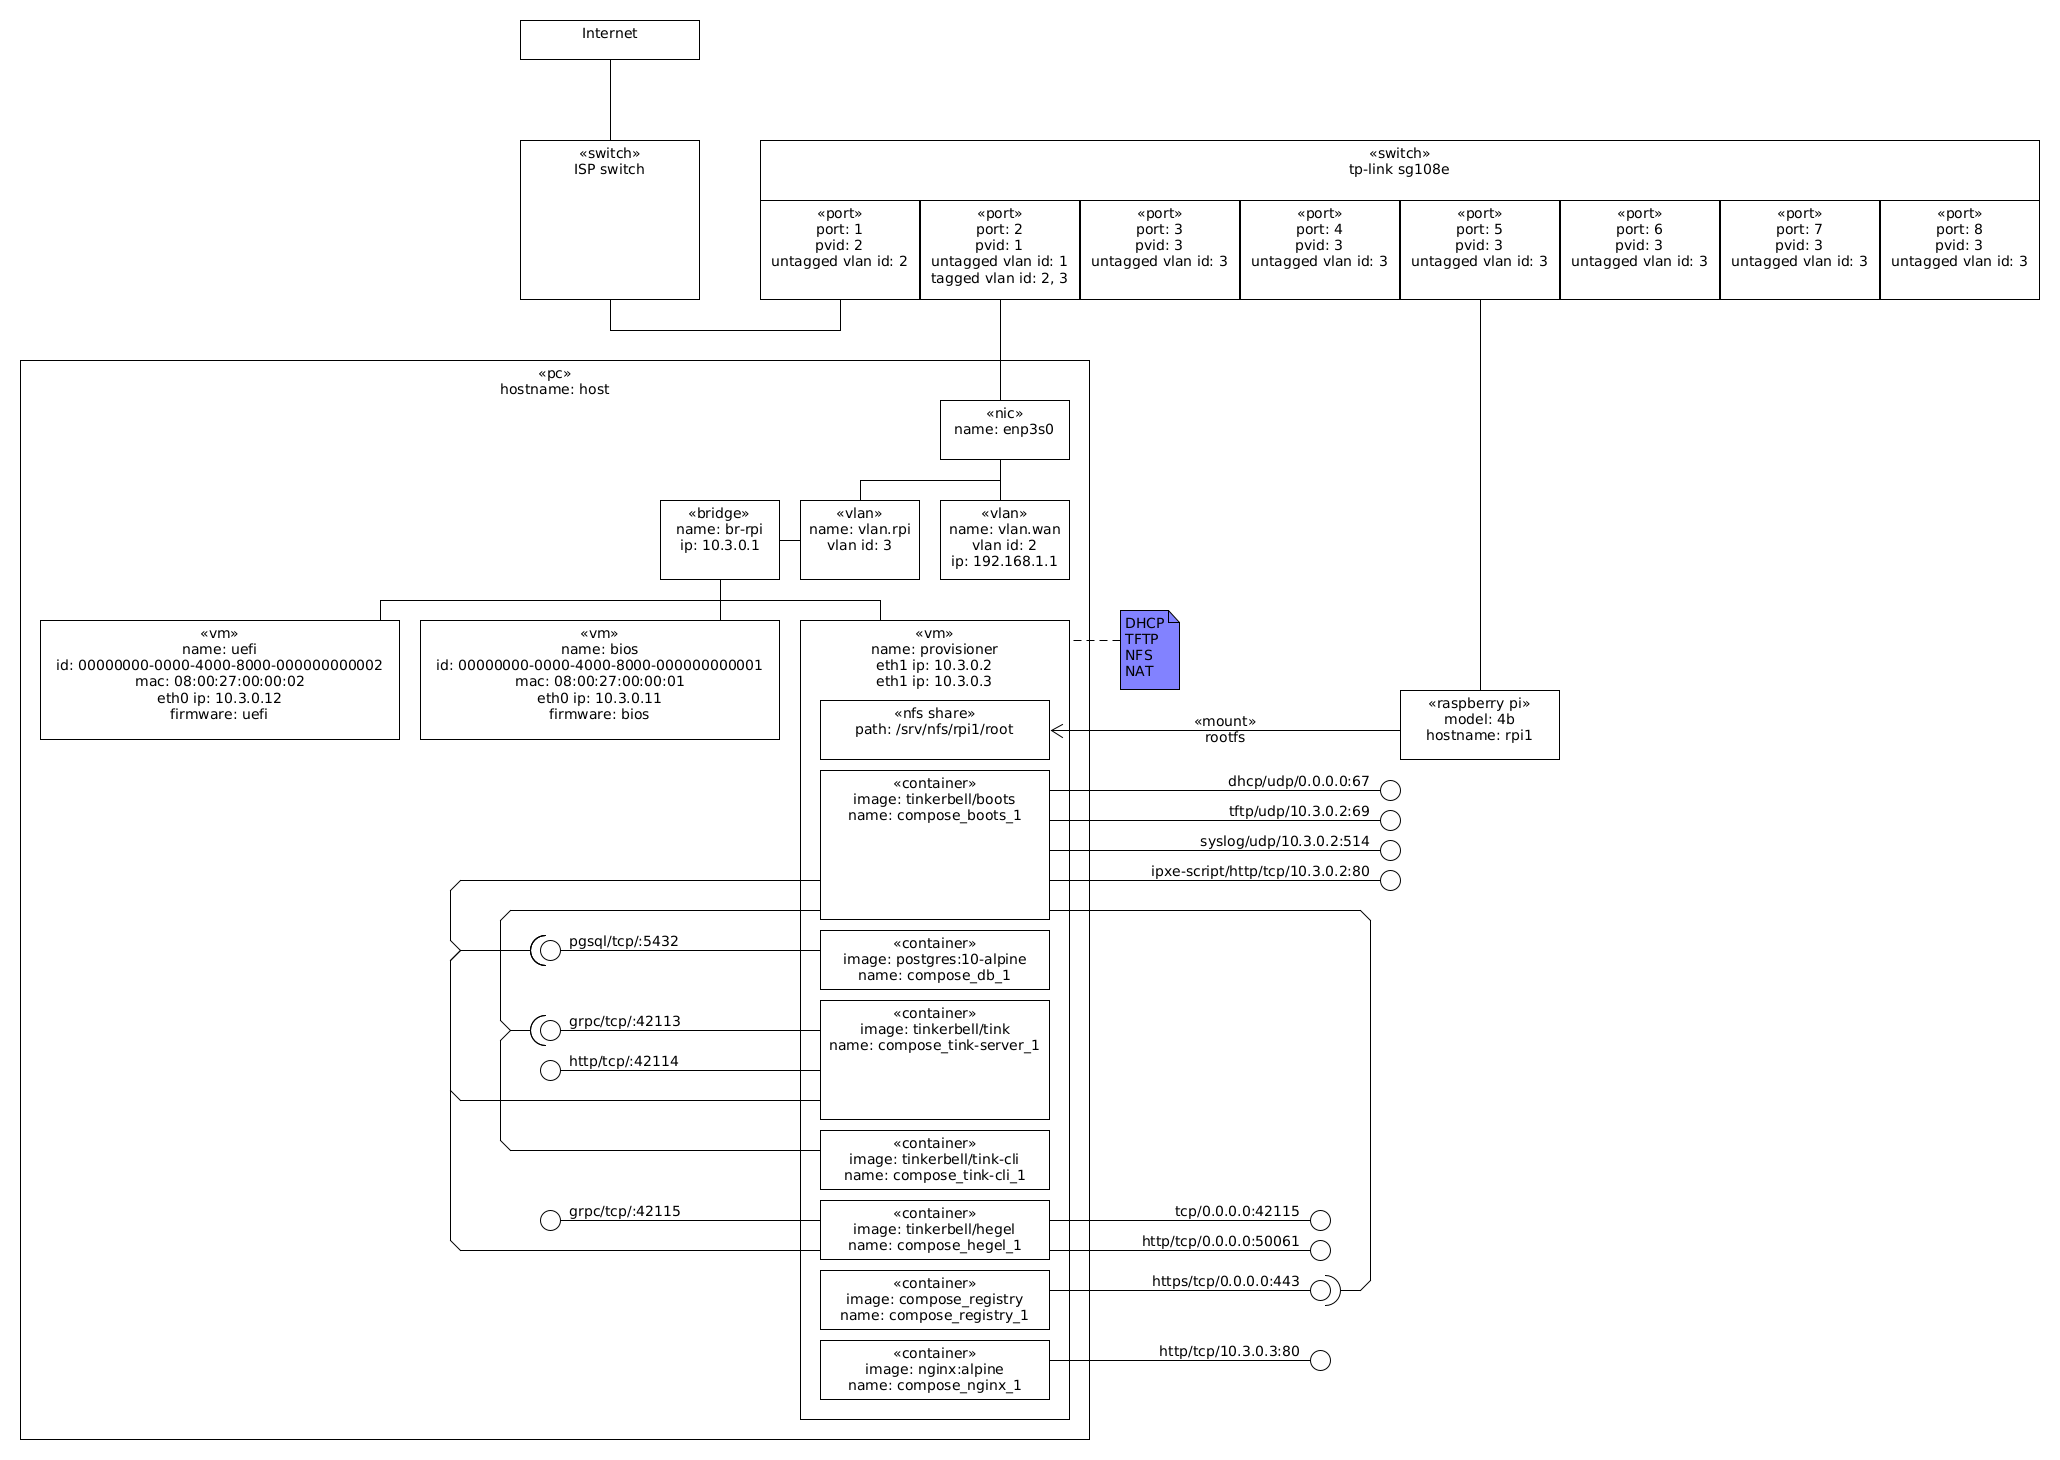
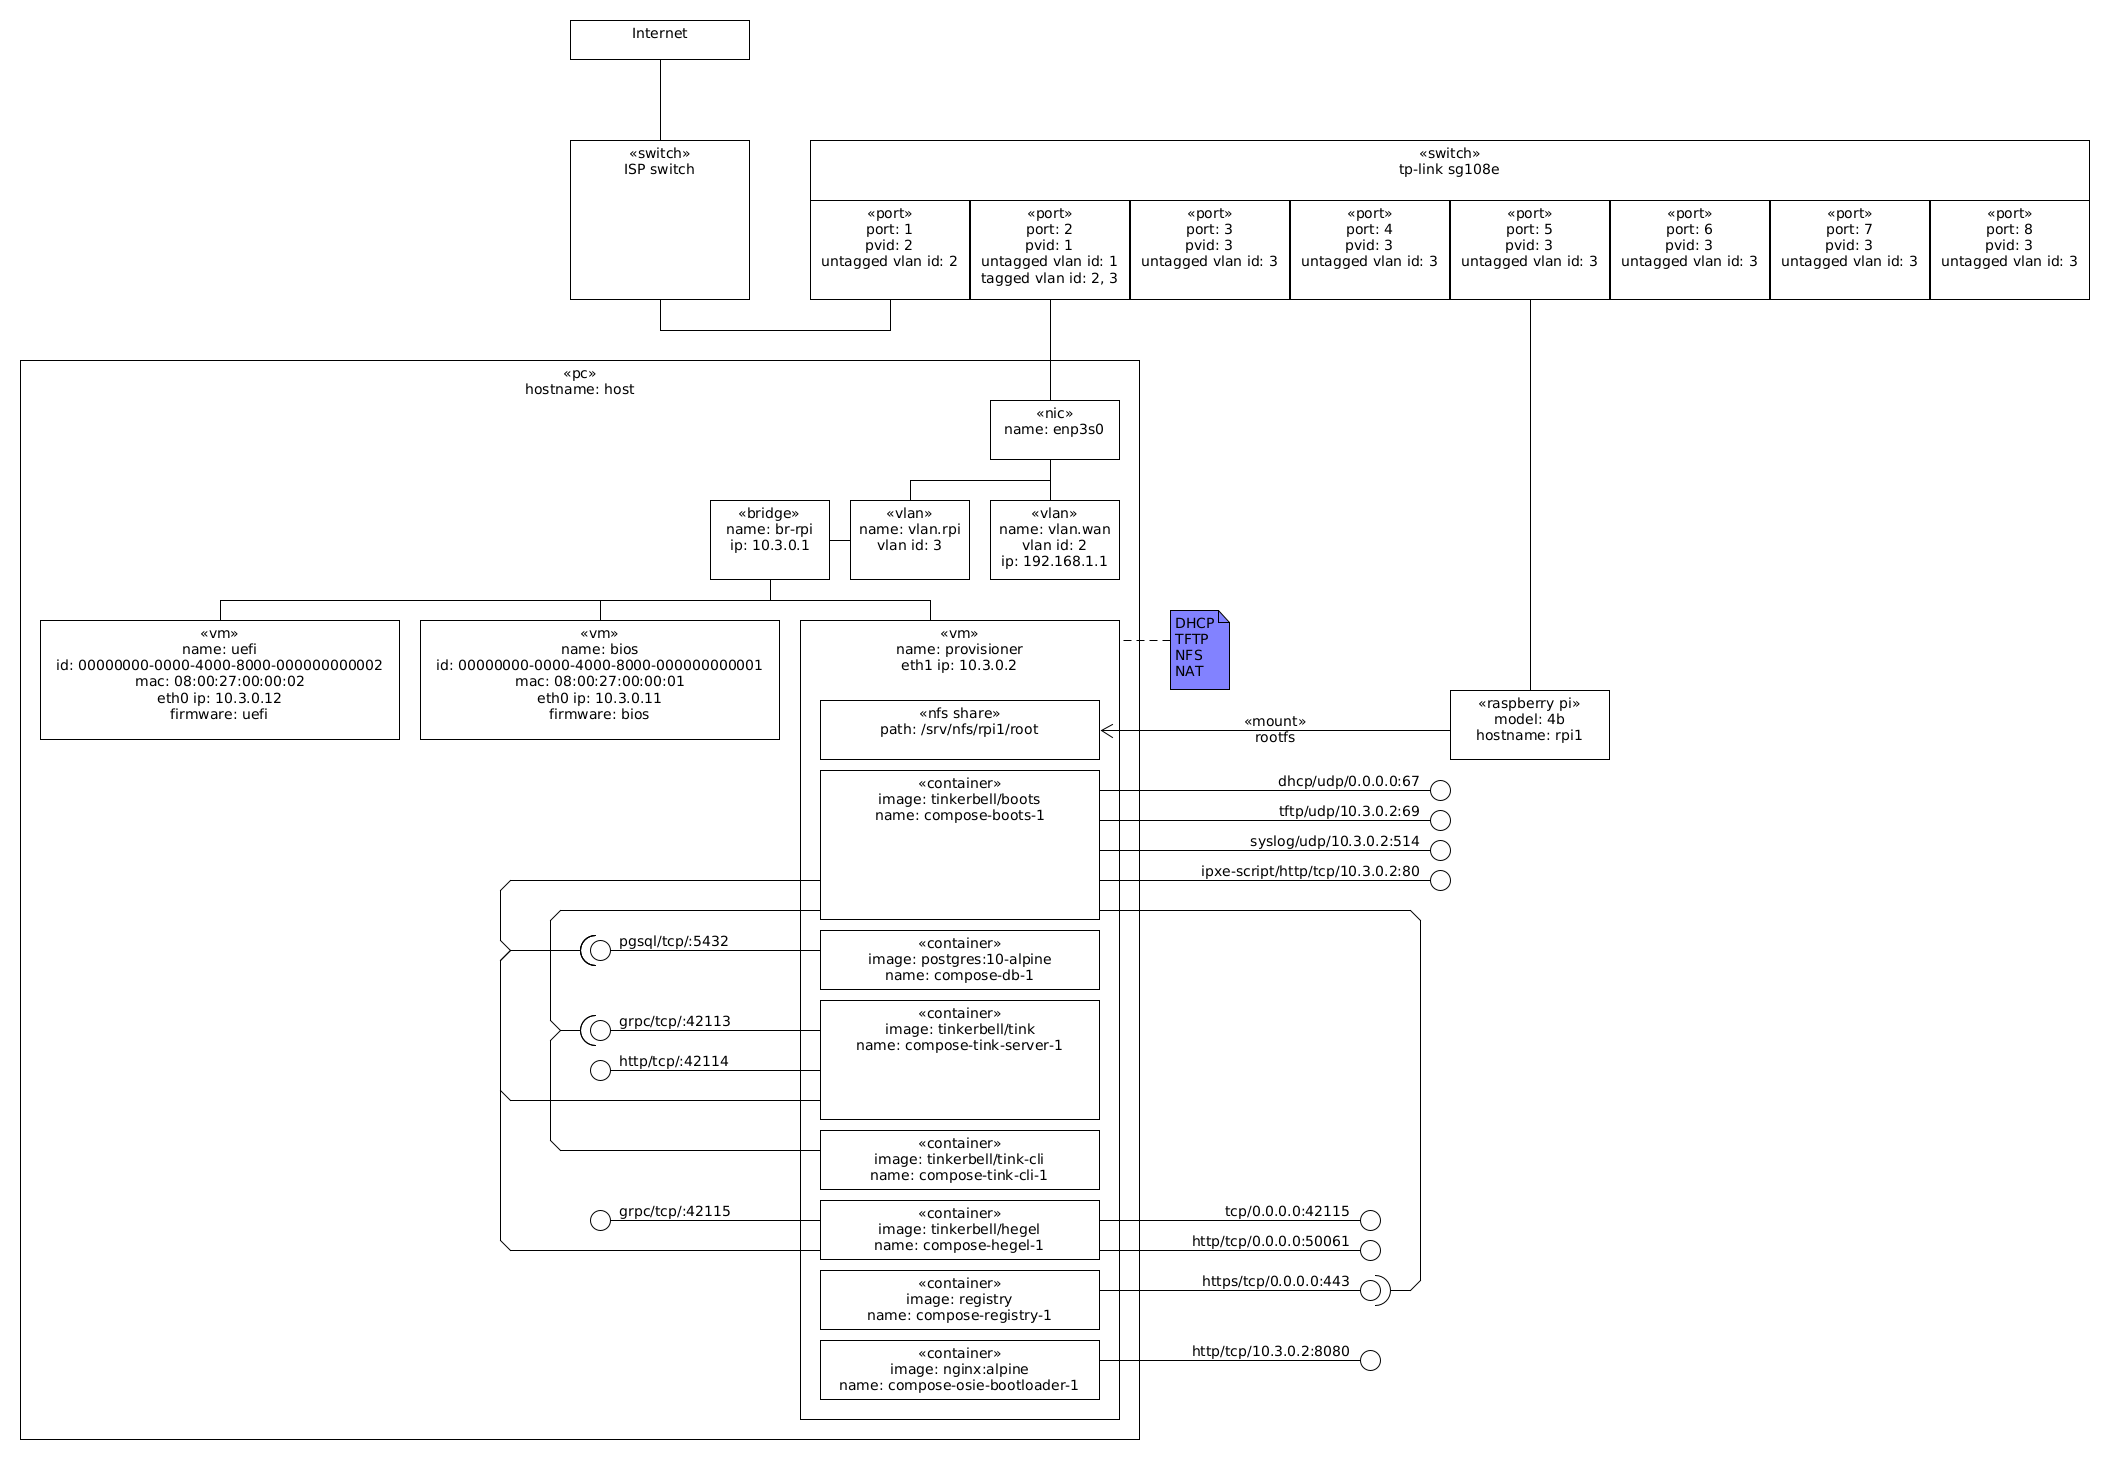
upgrade to docker compose 2.0.0

diff --git a/README.md b/README.md
@@ -206,20 +206,20 @@ At the time of writing these were the containers running by default:
 ```plain
 ContainerName                        ImageName                                 ImageId
 -----------------------------------  ----------------------------------------  -----------------------------------------------------------------------
-/compose_boots_1                     quay.io/tinkerbell/boots:sha-94f43947     sha256:dbebee7b9680a291045eec5c38106bed47d68434b3f9486911af7c5f3011dcde
-/compose_db_1                        postgres:10-alpine                        sha256:17ec9988ae216f69d9e6528aae17a9fce29a2b7951313de9a34802528116f2eb
-/compose_hegel_1                     quay.io/tinkerbell/hegel:sha-9f5da0a8     sha256:1e32a53ea16153ac9c7b6f0eea4aa8956f748ed710d8b926b9257221e794c3b8
-/compose_images-to-local-registry_1  quay.io/containers/skopeo:latest          sha256:330344b12dec285bdd089afe6b2752b6bd84b122ce5e51d7a32567f7b2d68b89
-/compose_osie-bootloader_1           nginx:alpine                              sha256:513f9a9d8748b25cdb0ec6f16b4523af7bba216a6bf0f43f70af75b4cf7cb780
-/compose_osie-work_1                 bash:4.4                                  sha256:e9ae8cfa6bbca7b9790ab5ea66d619e3cf9df5d037f8969980d96193eef0a198
-/compose_registry_1                  registry:2.7.1                            sha256:b2cb11db9d3d60af38d9d6841d3b8b053e5972c0b7e4e6351e9ea4374ed37d8c
-/compose_registry-auth_1             httpd:2                                   sha256:5ebe6e00baf9e77921c66f750839caf2adca3f22595504e4d93154fa5393631a
-/compose_registry-ca-crt-download_1  alpine                                    sha256:14119a10abf4669e8cdbdff324a9f9605d99697215a0d21c360fe8dfa8471bab
-/compose_tink-cli_1                  quay.io/tinkerbell/tink-cli:sha-8ea8a0e5  sha256:c67d5bdf2f1dc5a7eebe1e31a73abe46c28bdafc11ead079688d94253c836ceb
-/compose_tink-server_1               quay.io/tinkerbell/tink:sha-8ea8a0e5      sha256:7231517852e13257353e65ebe58d66eb949ecad5890188b7e050188e7ea05a7d
-/compose_tink-server-migration_1     quay.io/tinkerbell/tink:sha-8ea8a0e5      sha256:7231517852e13257353e65ebe58d66eb949ecad5890188b7e050188e7ea05a7d
-/compose_tls-gen_1                   cfssl/cfssl                               sha256:655abf144edde793a3ff1bc883cc82ca61411efb35d0d403a52f202c9c3cd377
-/compose_tls-gen_run_eb807e23f155    cfssl/cfssl                               sha256:655abf144edde793a3ff1bc883cc82ca61411efb35d0d403a52f202c9c3cd377
+/compose-boots-1                     quay.io/tinkerbell/boots:sha-94f43947     sha256:dbebee7b9680a291045eec5c38106bed47d68434b3f9486911af7c5f3011dcde
+/compose-db-1                        postgres:10-alpine                        sha256:17ec9988ae216f69d9e6528aae17a9fce29a2b7951313de9a34802528116f2eb
+/compose-hegel-1                     quay.io/tinkerbell/hegel:sha-9f5da0a8     sha256:1e32a53ea16153ac9c7b6f0eea4aa8956f748ed710d8b926b9257221e794c3b8
+/compose-images-to-local-registry-1  quay.io/containers/skopeo:latest          sha256:330344b12dec285bdd089afe6b2752b6bd84b122ce5e51d7a32567f7b2d68b89
+/compose-osie-bootloader-1           nginx:alpine                              sha256:513f9a9d8748b25cdb0ec6f16b4523af7bba216a6bf0f43f70af75b4cf7cb780
+/compose-osie-work-1                 bash:4.4                                  sha256:e9ae8cfa6bbca7b9790ab5ea66d619e3cf9df5d037f8969980d96193eef0a198
+/compose-registry-1                  registry:2.7.1                            sha256:b2cb11db9d3d60af38d9d6841d3b8b053e5972c0b7e4e6351e9ea4374ed37d8c
+/compose-registry-auth-1             httpd:2                                   sha256:5ebe6e00baf9e77921c66f750839caf2adca3f22595504e4d93154fa5393631a
+/compose-registry-ca-crt-download-1  alpine                                    sha256:14119a10abf4669e8cdbdff324a9f9605d99697215a0d21c360fe8dfa8471bab
+/compose-tink-cli-1                  quay.io/tinkerbell/tink-cli:sha-8ea8a0e5  sha256:c67d5bdf2f1dc5a7eebe1e31a73abe46c28bdafc11ead079688d94253c836ceb
+/compose-tink-server-1               quay.io/tinkerbell/tink:sha-8ea8a0e5      sha256:7231517852e13257353e65ebe58d66eb949ecad5890188b7e050188e7ea05a7d
+/compose-tink-server-migration-1     quay.io/tinkerbell/tink:sha-8ea8a0e5      sha256:7231517852e13257353e65ebe58d66eb949ecad5890188b7e050188e7ea05a7d
+/compose-tls-gen-1                   cfssl/cfssl                               sha256:655abf144edde793a3ff1bc883cc82ca61411efb35d0d403a52f202c9c3cd377
+/compose-tls-gen-run-eb807e23f155    cfssl/cfssl                               sha256:655abf144edde793a3ff1bc883cc82ca61411efb35d0d403a52f202c9c3cd377
 /meshcommander                       meshcommander                             sha256:6aac34c9779f6033fe8c937889ea30f72eb9079c638f58e370a791b1af558cde
 /portainer                           portainer/portainer-ce:2.9.0              sha256:8377e6877145988a508c616a6cbf1f9659ab6093da69f74179c5e01581d8b8b1
 ```
@@ -325,11 +325,11 @@ PostgreSQL database, you can access its console with, e.g.:
 ```bash
 vagrant ssh provisioner
 sudo -i
-docker exec -i compose_db_1 psql -U tinkerbell -c '\dt'
-docker exec -i compose_db_1 psql -U tinkerbell -c '\d hardware'
-docker exec -i compose_db_1 psql -U tinkerbell -c 'select * from template'
-docker exec -i compose_db_1 psql -U tinkerbell -c 'select * from workflow'
-docker exec -i compose_db_1 psql -U tinkerbell -c 'select * from workflow_event order by created_at desc'
+docker exec -i compose-db-1 psql -U tinkerbell -c '\dt'
+docker exec -i compose-db-1 psql -U tinkerbell -c '\d hardware'
+docker exec -i compose-db-1 psql -U tinkerbell -c 'select * from template'
+docker exec -i compose-db-1 psql -U tinkerbell -c 'select * from workflow'
+docker exec -i compose-db-1 psql -U tinkerbell -c 'select * from workflow_event order by created_at desc'
 ```
 
 # Notes
